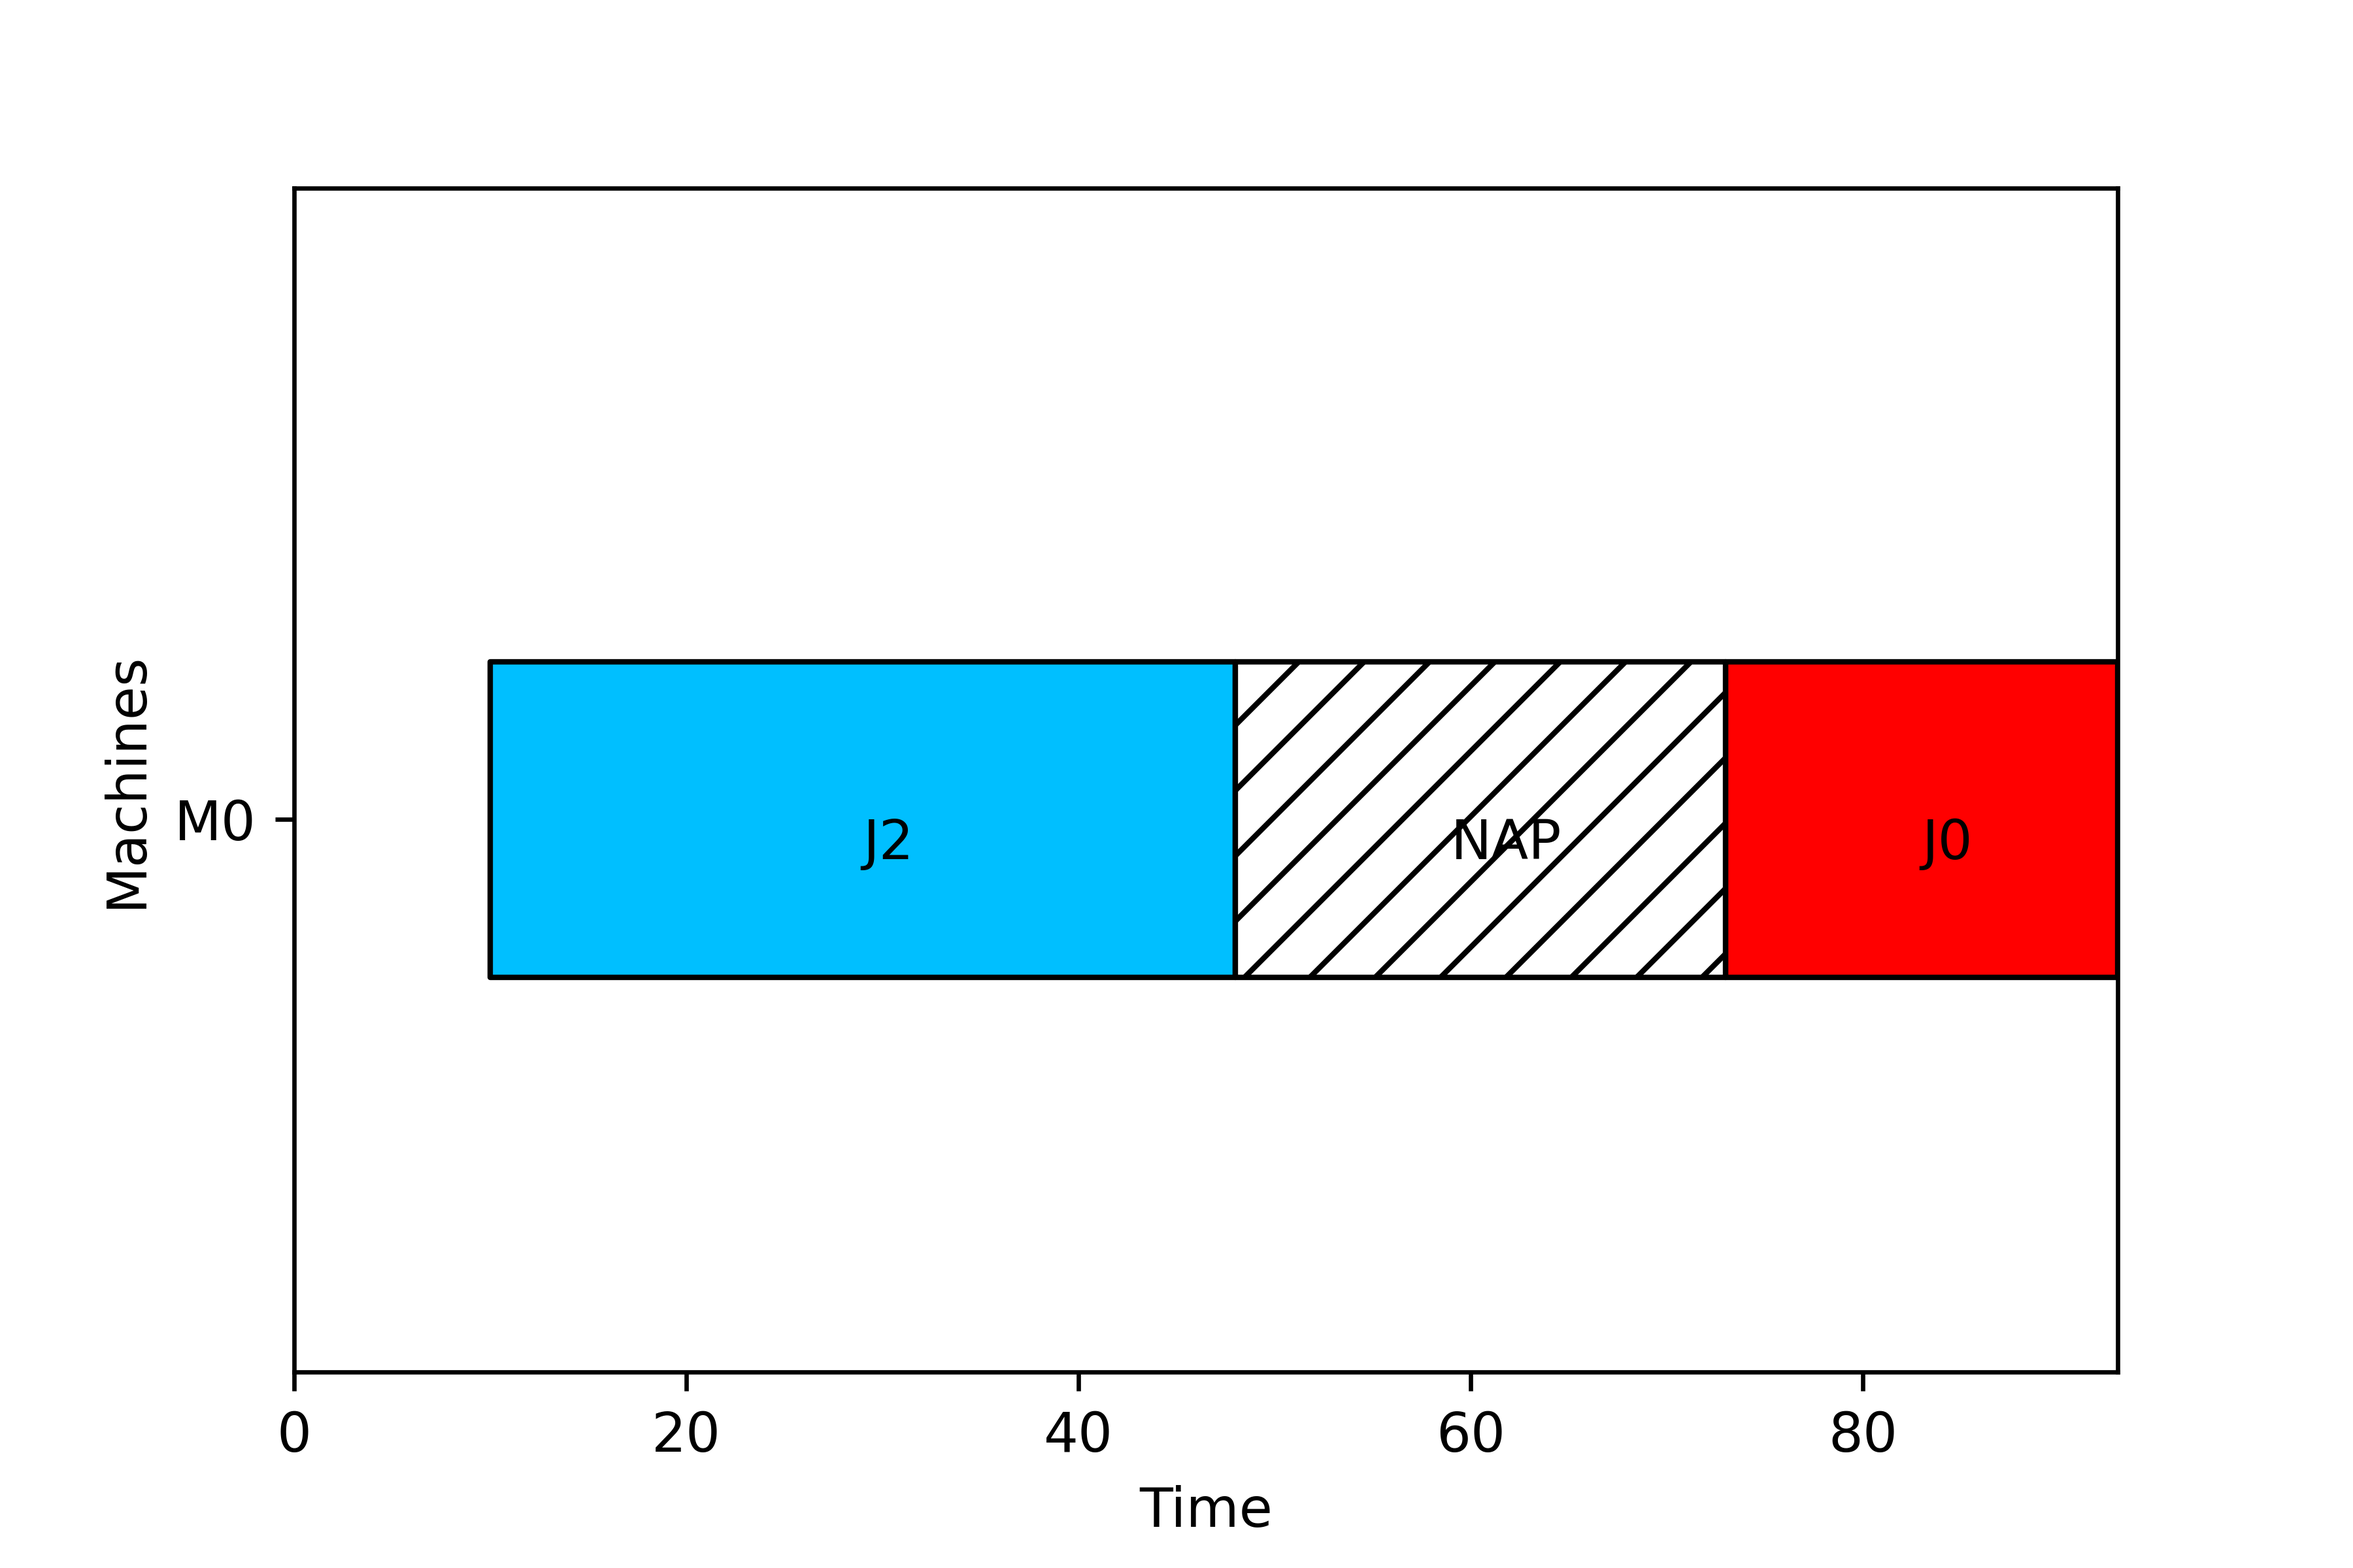
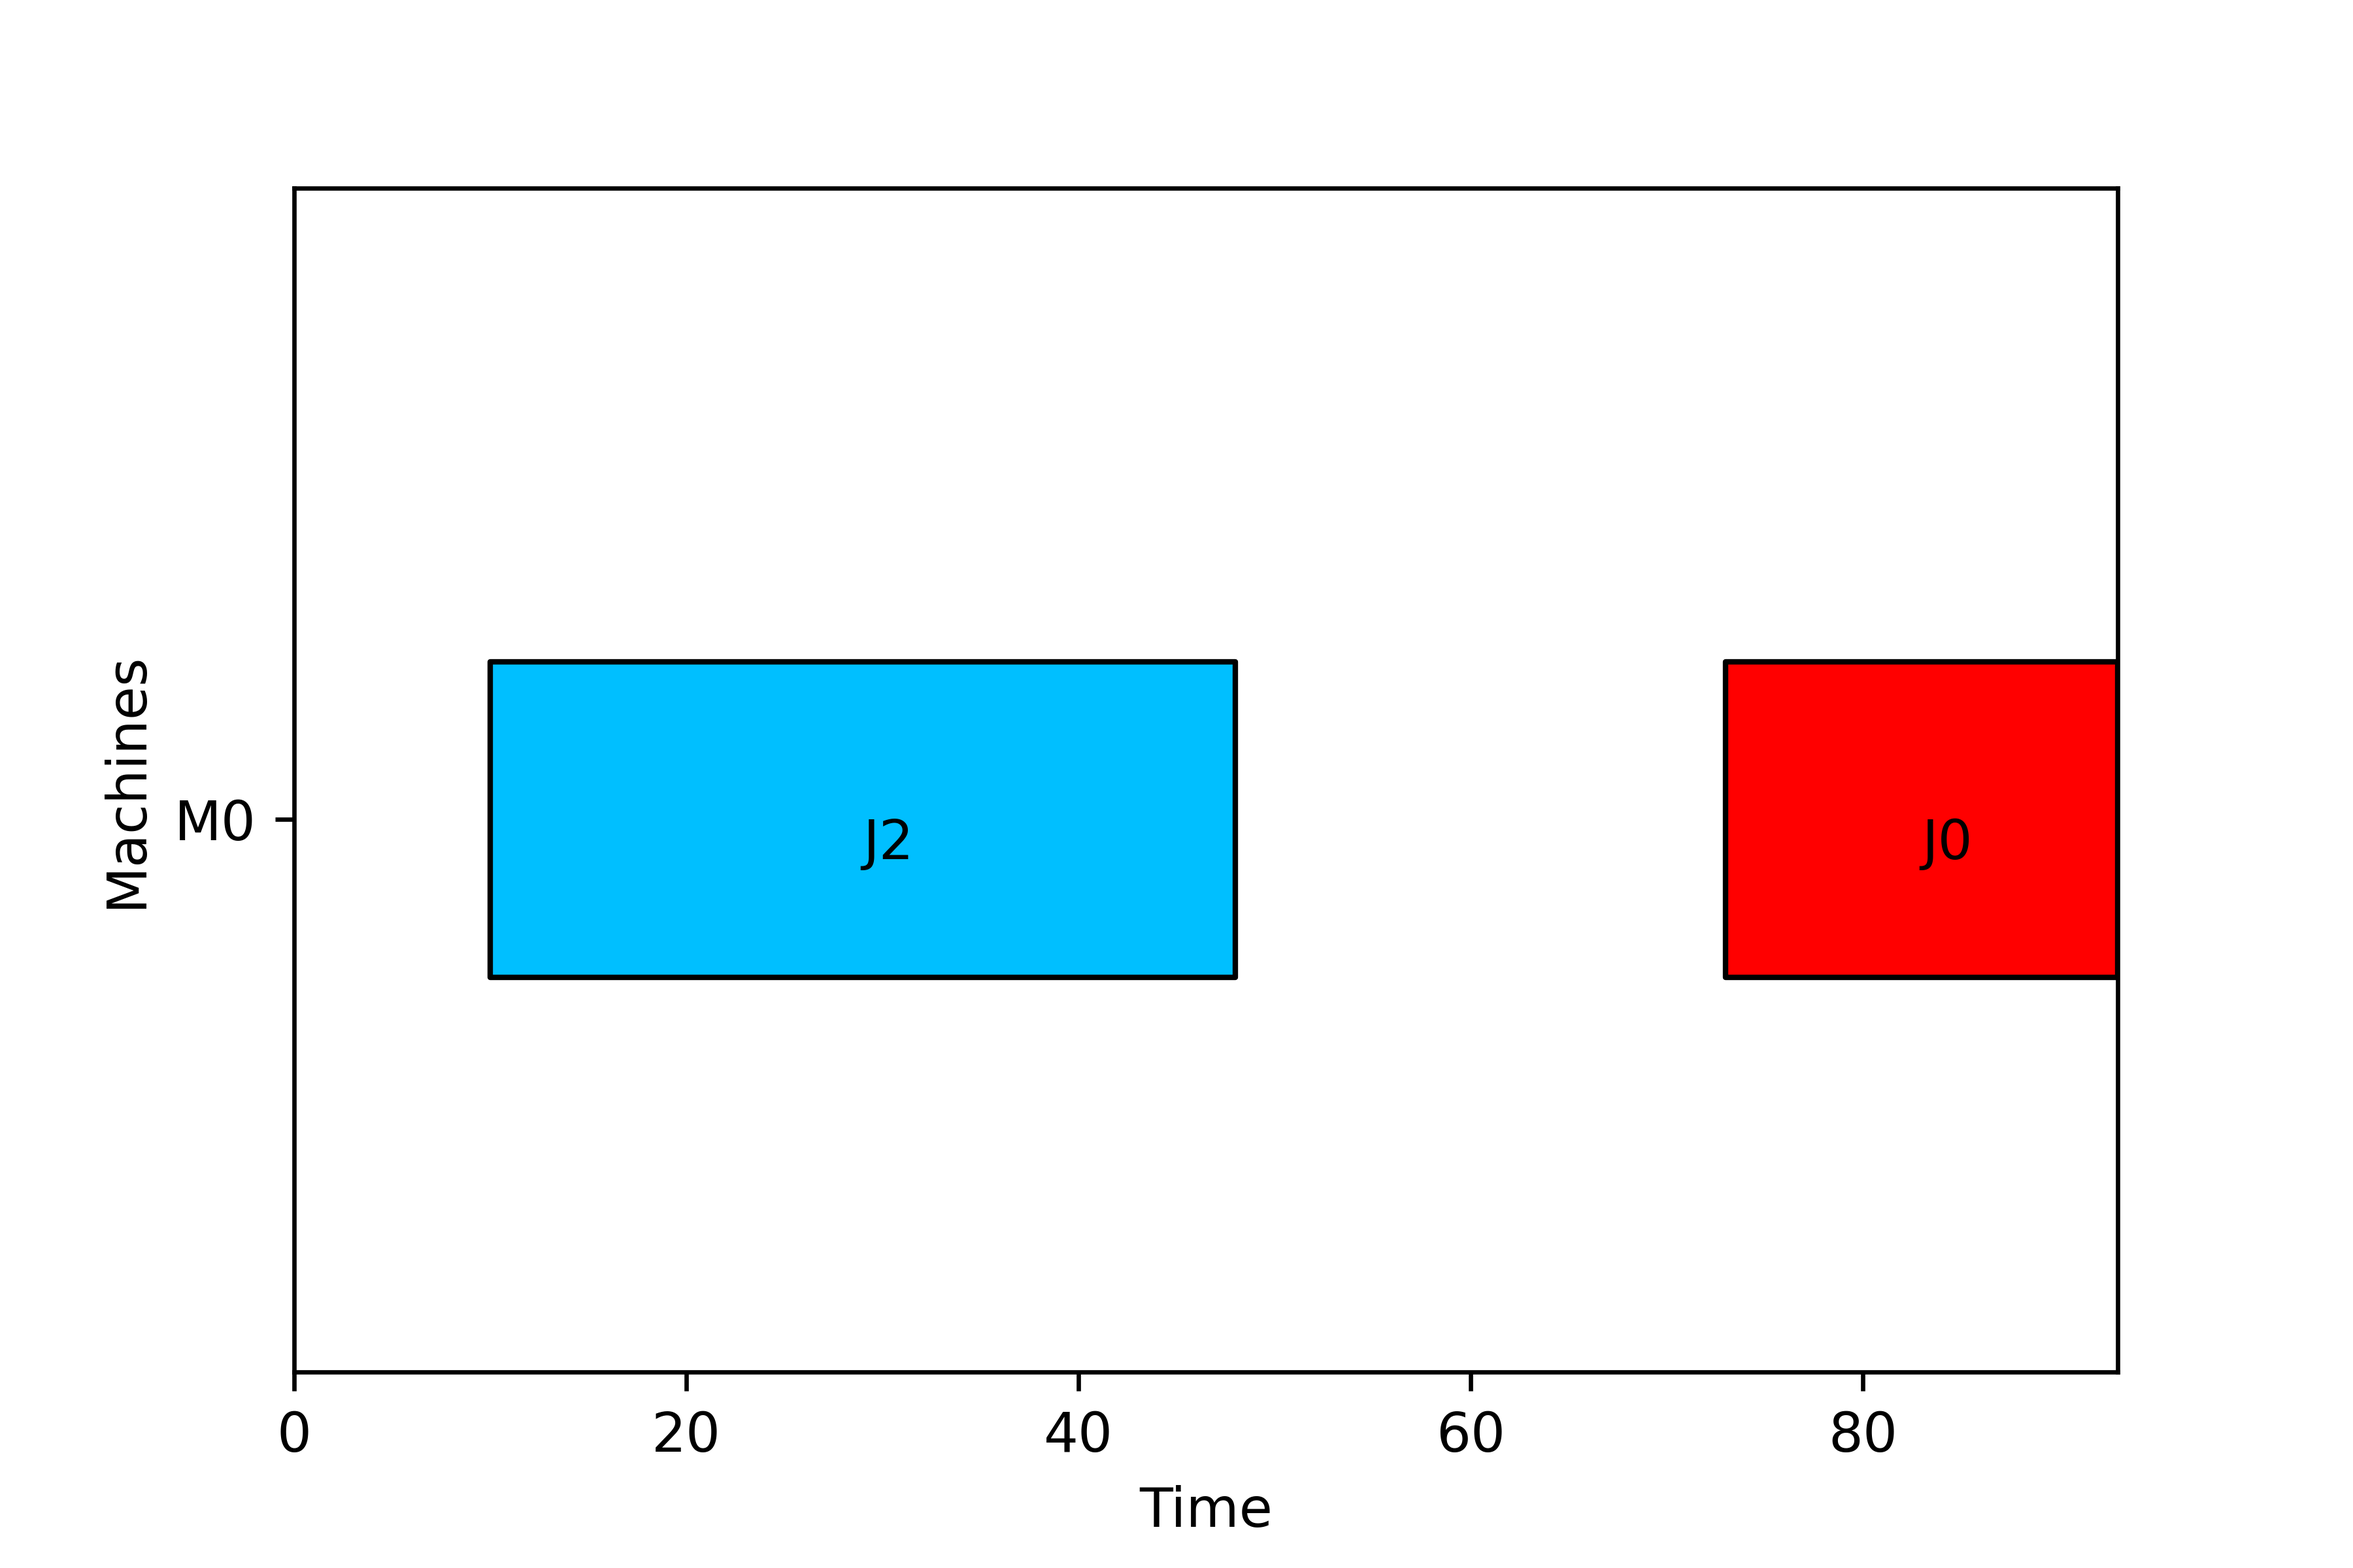
Advanced Gantt chart functionalities

Changed region(s): [[0.5289, 0.4062, 0.7467, 0.625]]

diff --git a/build/lib/scheptk/scheptk.py b/build/lib/scheptk/scheptk.py
@@ -17,6 +17,16 @@ class Task:
         self.ct = ct
 
 
+# Non Availabilty Period
+class NAP:
+
+    def __init__(self, machine, st, ct, name=None):
+        self.machine = machine
+        self.st = st
+        self.ct = ct
+        self.name = name
+
+
 class Schedule():
 
     def __init__(self, filename=None):
@@ -25,6 +35,9 @@ class Schedule():
         self.task_list = []
         # job order (order to indicate which is each job in the schedule)
         self.job_order = []
+
+        # lists of NAPS in the schedule
+        self.NAP_list = []
 
         if(filename != None):
             # load the tag with the job order
@@ -45,6 +58,12 @@ class Schedule():
         # add the job to the job order (in case it is a new job)
         if( self.job_order.count(task.job) == 0):
             self.job_order.append(task.job)
+
+
+    def add_NAP(self, nap):
+
+        # add the NAP to the list
+        self.NAP_list.append(nap)
 
 
 
@@ -78,6 +97,8 @@ class Schedule():
         write_tag('JOB_ORDER',self.job_order, filename)
 
 
+
+            
     # print a basic gantt with the schedule given. Optionally, it saves the gantt in a png image
     def print(self, filename=None):
         
@@ -90,14 +111,14 @@ class Schedule():
         # palette of light colors
         colors = ['red','lime','deepskyblue','bisque','mintcream','royalblue','sandybrown','palegreen','pink','violet','cyan','darkseagreen','gold']
 
-        # compute number of machines
-        machines = set([task.machine for task in self.task_list])
+        # compute number of machines (those with tasks and those with NAPs)
+        machines = set([task.machine for task in self.task_list] + [nap.machine for nap in self.NAP_list])
 
         # create gantt
         figure, gantt = plt.subplots()    
-        
+
         # limits (makespan and depending on the number of machines)
-        gantt.set_xlim(0,max([task.ct for task in self.task_list]))
+        gantt.set_xlim(0,max([task.ct for task in self.task_list] + [nap.ct for nap in self.NAP_list]))
         gantt.set_ylim(0,len(machines) * tick_separation + tick_starting_at)
  
         # labels
@@ -119,23 +140,35 @@ class Schedule():
                 gantt.broken_barh(task[0],task[1],facecolors=colors[job % len(colors)], edgecolors='black', label = 'J' + str(job))
                 gantt.text(task[0][0][0] + task[0][0][1]/2, task[1][0] + task_height/2 - font_height,'J' + str(job))
 
+
+        # populate the NAPS in the gantt
+        # points to print
+        void_to_print = [[[(void.st, void.ct-void.st)],(tick_starting_at + tick_separation * (len(machines) - void.machine - 1), task_height)] for void in self.NAP_list]
+        for i,void in enumerate(void_to_print):
+            # printing only meaningful NAPS (>0)
+            if(void[0][0][0] != void[0][0][1]):
+                gantt.broken_barh(void[0],void[1],facecolors='white', edgecolors='black', label = self.NAP_list[i].name, hatch='//')
+                #gantt.text(void[0][0][0] + void[0][0][1]/2, void[1][0] + task_height/2 - font_height, self.NAP_list[i].name)
+                gantt.text(void[0][0][0] + (void[0][0][1]- len(self.NAP_list[i].name))/2, void[1][0] + task_height/2 - font_height, self.NAP_list[i].name)
+
         # optionally, the gantt is printed in hi-res
         if(filename != None):
-            figure.savefig(filename, dpi=600)
+            # facecolor is required (at least for .png) as savefig overwrites plot paramaters
+            figure.savefig(filename, dpi=600,facecolor='w')
 
 
 
 class Model(ABC):
  
-    # basic data, common to all layouts
+    # common properties to all layouts (include optional data)
+    # note that machines is not common for Single Machine environments 
     def __init__(self):
         self.jobs = 0 
         self.pt = []
         self.dd = []
         self.w = [] # weigths
         self.r = [] # release dates
-   
- 
+
     @abstractmethod
     def ct(self, sequence):
         pass
@@ -372,7 +405,7 @@ class Model(ABC):
     def print_schedule(self, solution, filename=None):
         gantt = self.create_schedule(solution)
         gantt.print(filename)
-
+ 
 
 
 # class to implement the single machine layout

diff --git a/setup.py b/setup.py
@@ -11,7 +11,7 @@ requirements = ["ipython>=6", "nbformat>=4", "nbconvert>=5", "requests>=2"]
 
 setup(
     name="scheptk",
-    version="0.0.6",
+    version="0.0.7",
     author="Jose M Framinan",
     author_email="framinan@us.es",
     description="Python scheduling package",
